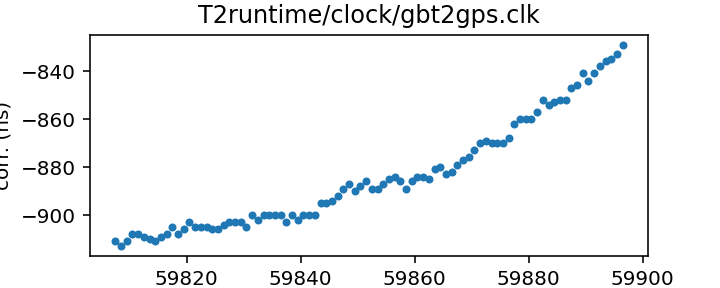
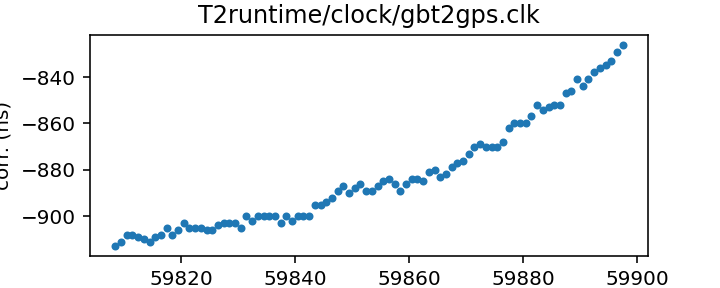
Routine gh-pages update from Github action Tue Nov 15 20:33:24 UTC 2022

diff --git a/status.md b/status.md
@@ -13,17 +13,17 @@ name of each clock file links to a page with more details.
 
 | Name | File | Corrections start | Corrections end | Last check date | Last check result 
 |:--- |:--- | --- | --- | --- |:--- 
-| [GPS to UTC](T2runtime/clock/gps2utc.clk.html) | `T2runtime/clock/gps2utc.clk` | 1993-01-01 MJD 48988.0 | 2022-10-27 MJD 59879.0 | 2022-11-14 | Unchanged 
-| [GPS to UTC (Combined Clock)](T2runtime/clock/gps2utc_cc.clk.html) | `T2runtime/clock/gps2utc_cc.clk` | 1993-01-01 MJD 48988.0 | 2022-10-27 MJD 59879.0 | 2022-11-14 | Unchanged 
-| [GPS to UTC (Corrected)](T2runtime/clock/gps2utc_c0p.clk.html) | `T2runtime/clock/gps2utc_c0p.clk` | 2010-12-29 MJD 55559.0 | 2022-10-27 MJD 59879.0 | 2022-11-14 | Unchanged 
-| [GBT](tempo/clock/time_gbt.dat.html) | `tempo/clock/time_gbt.dat` | 2000-12-31 MJD 51909.5 | 2022-11-13 MJD 59896.5 | 2022-11-14 | Updated 
-| [GBT (TEMPO2 converted from TEMPO)](T2runtime/clock/gbt2gps.clk.html) | `T2runtime/clock/gbt2gps.clk` | 2000-12-31 MJD 51909.5 | 2022-11-13 MJD 59896.5 | 2022-11-14 | Updated 
+| [GPS to UTC](T2runtime/clock/gps2utc.clk.html) | `T2runtime/clock/gps2utc.clk` | 1993-01-01 MJD 48988.0 | 2022-10-27 MJD 59879.0 | 2022-11-15 | Unchanged 
+| [GPS to UTC (Combined Clock)](T2runtime/clock/gps2utc_cc.clk.html) | `T2runtime/clock/gps2utc_cc.clk` | 1993-01-01 MJD 48988.0 | 2022-10-27 MJD 59879.0 | 2022-11-15 | Unchanged 
+| [GPS to UTC (Corrected)](T2runtime/clock/gps2utc_c0p.clk.html) | `T2runtime/clock/gps2utc_c0p.clk` | 2010-12-29 MJD 55559.0 | 2022-10-27 MJD 59879.0 | 2022-11-15 | Unchanged 
+| [GBT](tempo/clock/time_gbt.dat.html) | `tempo/clock/time_gbt.dat` | 2000-12-31 MJD 51909.5 | 2022-11-14 MJD 59897.5 | 2022-11-15 | Updated 
+| [GBT (TEMPO2 converted from TEMPO)](T2runtime/clock/gbt2gps.clk.html) | `T2runtime/clock/gbt2gps.clk` | 2000-12-31 MJD 51909.5 | 2022-11-14 MJD 59897.5 | 2022-11-15 | Updated 
 | [Jodrell Bank](T2runtime/clock/jb2gps.clk.html) | `T2runtime/clock/jb2gps.clk` | 2006-10-13 MJD 54021.4 | 2021-11-03 MJD 59521.0 | 2022-11-09 | Unchanged 
 | [Jodrell Bank Roach](T2runtime/clock/jbroach2jb.clk.html) | `T2runtime/clock/jbroach2jb.clk` | 2006-10-13 MJD 54021.4 | 2018-03-20 MJD 58197.6 | 2022-11-09 | Unchanged 
 | [Jodrell Bank DFB](T2runtime/clock/jbdfb2jb.clk.html) | `T2runtime/clock/jbdfb2jb.clk` | 2006-10-13 MJD 54021.4 | 2017-05-11 MJD 57884.0 | 2022-11-09 | Unchanged 
 | [Meerkat (observatory)](T2runtime/clock/mk2utc_observatory.clk.html) | `T2runtime/clock/mk2utc_observatory.clk` | 2019-01-01 MJD 58484.0 | 2022-10-27 MJD 59880.0 | 2022-11-14 | Updated 
-| [Leap seconds](tempo/clock/leap.sec.html) | `tempo/clock/leap.sec` | 1972-07-01 MJD 41499.0 | 2017-01-01 MJD 57754.0 | 2022-11-14 | Unchanged 
-| [UT1 table](tempo/clock/ut1.dat.html) | `tempo/clock/ut1.dat` | 1973-01-02 MJD 41684.0 | 2023-11-18 MJD 60266.0 | 2022-11-14 | Unchanged 
+| [Leap seconds](tempo/clock/leap.sec.html) | `tempo/clock/leap.sec` | 1972-07-01 MJD 41499.0 | 2017-01-01 MJD 57754.0 | 2022-11-15 | Unchanged 
+| [UT1 table](tempo/clock/ut1.dat.html) | `tempo/clock/ut1.dat` | 1973-01-02 MJD 41684.0 | 2023-11-18 MJD 60266.0 | 2022-11-15 | Unchanged 
 
 
 

diff --git a/T2runtime/clock/gbt2gps.clk.md b/T2runtime/clock/gbt2gps.clk.md
@@ -23,14 +23,13 @@ If questions arise about the conversion, contact Anne Archibald
 | Format | tempo2 |
 | Bogus last correction | False |
 | Clock file start | 2000-12-31 MJD 51909.5 |
-| Clock file end | 2022-11-13 MJD 59896.5 |
+| Clock file end | 2022-11-14 MJD 59897.5 |
 | Update interval (days) | 1 |
-| Last update attempt | 2022-11-14 |
+| Last update attempt | 2022-11-15 |
 | Last update result | Updated |
 
 Log entries from the last few update attempts:
 ```
-2022-11-05 20:35:36.397 - Updated
 2022-11-06 20:33:42.746 - Updated
 2022-11-07 20:35:55.172 - Updated
 2022-11-08 20:36:20.152 - Updated
@@ -40,12 +39,13 @@ Log entries from the last few update attempts:
 2022-11-12 20:33:44.670 - Updated
 2022-11-13 20:33:40.847 - Updated
 2022-11-14 20:34:24.128 - Updated
+2022-11-15 20:33:02.042 - Updated
 ```
 [Full log](https://raw.githubusercontent.com/ipta/pulsar-clock-corrections/main/log/T2runtime/clock/gbt2gps.clk.log)
 
 Leading comments from clock file:
 
-    # This file was automatically converted from tempo/clock/time_gbt.dat on 2022-11-14 20:34:24.052
+    # This file was automatically converted from tempo/clock/time_gbt.dat on 2022-11-15 20:33:01.974
 
 
 

diff --git a/tempo/clock/time_gbt.dat.md b/tempo/clock/time_gbt.dat.md
@@ -18,14 +18,13 @@ If questions arise, contact Ryan S. Lynch <rlynch@nrao.edu>.
 | Format | tempo |
 | Bogus last correction | False |
 | Clock file start | 2000-12-31 MJD 51909.5 |
-| Clock file end | 2022-11-13 MJD 59896.5 |
+| Clock file end | 2022-11-14 MJD 59897.5 |
 | Update interval (days) | 1 |
-| Last update attempt | 2022-11-14 |
+| Last update attempt | 2022-11-15 |
 | Last update result | Updated |
 
 Log entries from the last few update attempts:
 ```
-2022-11-05 20:35:36.308 - Updated
 2022-11-06 20:33:42.662 - Updated
 2022-11-07 20:35:54.719 - Updated
 2022-11-08 20:36:20.083 - Updated
@@ -35,6 +34,7 @@ Log entries from the last few update attempts:
 2022-11-12 20:33:44.587 - Updated
 2022-11-13 20:33:40.754 - Updated
 2022-11-14 20:34:23.861 - Updated
+2022-11-15 20:33:01.972 - Updated
 ```
 [Full log](https://raw.githubusercontent.com/ipta/pulsar-clock-corrections/main/log/tempo/clock/time_gbt.dat.log)
 

diff --git a/T2runtime/clock/gps2utc_c0p.clk.md b/T2runtime/clock/gps2utc_c0p.clk.md
@@ -30,12 +30,11 @@ about the BIPM's published corrections, contact <tai@bipm.org>.
 | Clock file start | 2010-12-29 MJD 55559.0 |
 | Clock file end | 2022-10-27 MJD 59879.0 |
 | Update interval (days) | 1 |
-| Last update attempt | 2022-11-14 |
+| Last update attempt | 2022-11-15 |
 | Last update result | Unchanged |
 
 Log entries from the last few update attempts:
 ```
-2022-11-05 20:35:35.283 - Unchanged
 2022-11-06 20:33:41.735 - Unchanged
 2022-11-07 20:35:54.065 - Unchanged
 2022-11-08 20:36:19.633 - Unchanged
@@ -45,6 +44,7 @@ Log entries from the last few update attempts:
 2022-11-12 20:33:43.614 - Unchanged
 2022-11-13 20:33:39.759 - Unchanged
 2022-11-14 20:34:23.476 - Unchanged
+2022-11-15 20:33:01.582 - Unchanged
 ```
 [Full log](https://raw.githubusercontent.com/ipta/pulsar-clock-corrections/main/log/T2runtime/clock/gps2utc_c0p.clk.log)
 

diff --git a/T2runtime/clock/gps2utc_cc.clk.md b/T2runtime/clock/gps2utc_cc.clk.md
@@ -29,12 +29,11 @@ about the BIPM's published corrections, contact <tai@bipm.org>.
 | Clock file start | 1993-01-01 MJD 48988.0 |
 | Clock file end | 2022-10-27 MJD 59879.0 |
 | Update interval (days) | 1 |
-| Last update attempt | 2022-11-14 |
+| Last update attempt | 2022-11-15 |
 | Last update result | Unchanged |
 
 Log entries from the last few update attempts:
 ```
-2022-11-05 20:35:35.269 - Unchanged
 2022-11-06 20:33:41.720 - Unchanged
 2022-11-07 20:35:54.050 - Unchanged
 2022-11-08 20:36:19.622 - Unchanged
@@ -44,6 +43,7 @@ Log entries from the last few update attempts:
 2022-11-12 20:33:43.601 - Unchanged
 2022-11-13 20:33:39.745 - Unchanged
 2022-11-14 20:34:23.464 - Unchanged
+2022-11-15 20:33:01.571 - Unchanged
 ```
 [Full log](https://raw.githubusercontent.com/ipta/pulsar-clock-corrections/main/log/T2runtime/clock/gps2utc_cc.clk.log)
 

diff --git a/T2runtime/clock/gps2utc.clk.md b/T2runtime/clock/gps2utc.clk.md
@@ -32,12 +32,11 @@ about the BIPM's published corrections, contact <tai@bipm.org>.
 | Clock file start | 1993-01-01 MJD 48988.0 |
 | Clock file end | 2022-10-27 MJD 59879.0 |
 | Update interval (days) | 1 |
-| Last update attempt | 2022-11-14 |
+| Last update attempt | 2022-11-15 |
 | Last update result | Unchanged |
 
 Log entries from the last few update attempts:
 ```
-2022-11-05 20:35:35.229 - Unchanged
 2022-11-06 20:33:41.675 - Unchanged
 2022-11-07 20:35:54.006 - Unchanged
 2022-11-08 20:36:19.589 - Unchanged
@@ -47,6 +46,7 @@ Log entries from the last few update attempts:
 2022-11-12 20:33:43.561 - Unchanged
 2022-11-13 20:33:39.703 - Unchanged
 2022-11-14 20:34:23.429 - Unchanged
+2022-11-15 20:33:01.537 - Unchanged
 ```
 [Full log](https://raw.githubusercontent.com/ipta/pulsar-clock-corrections/main/log/T2runtime/clock/gps2utc.clk.log)
 

diff --git a/tempo/clock/leap.sec.md b/tempo/clock/leap.sec.md
@@ -21,12 +21,11 @@ If there are any questions, contact Anne Archibald
 | File start | 1972-07-01 MJD 41499.0 |
 | File end | 2017-01-01 MJD 57754.0 |
 | Update interval (days) | 0 |
-| Last update attempt | 2022-11-14 |
+| Last update attempt | 2022-11-15 |
 | Last update result | Unchanged |
 
 Log entries from the last few update attempts:
 ```
-2022-11-05 20:35:36.452 - Unchanged
 2022-11-06 20:33:42.788 - Unchanged
 2022-11-07 20:36:05.786 - Unchanged
 2022-11-08 20:36:20.189 - Unchanged
@@ -36,5 +35,6 @@ Log entries from the last few update attempts:
 2022-11-12 20:33:44.723 - Unchanged
 2022-11-13 20:33:40.901 - Unchanged
 2022-11-14 20:34:27.564 - Unchanged
+2022-11-15 20:33:02.079 - Unchanged
 ```
 [Full log](https://raw.githubusercontent.com/ipta/pulsar-clock-corrections/main/log/tempo/clock/leap.sec.log)

diff --git a/tempo/clock/ut1.dat.md b/tempo/clock/ut1.dat.md
@@ -30,12 +30,11 @@ If there are any questions, contact Anne Archibald
 | File start | 1973-01-02 MJD 41684.0 |
 | File end | 2023-11-18 MJD 60266.0 |
 | Update interval (days) | 0 |
-| Last update attempt | 2022-11-14 |
+| Last update attempt | 2022-11-15 |
 | Last update result | Unchanged |
 
 Log entries from the last few update attempts:
 ```
-2022-11-05 20:35:49.505 - Unchanged
 2022-11-06 20:33:56.016 - Unchanged
 2022-11-07 20:36:16.070 - Unchanged
 2022-11-08 20:36:28.717 - Unchanged
@@ -45,5 +44,6 @@ Log entries from the last few update attempts:
 2022-11-12 20:33:58.975 - Unchanged
 2022-11-13 20:33:54.035 - Unchanged
 2022-11-14 20:34:35.680 - Unchanged
+2022-11-15 20:33:10.234 - Unchanged
 ```
 [Full log](https://raw.githubusercontent.com/ipta/pulsar-clock-corrections/main/log/tempo/clock/ut1.dat.log)
